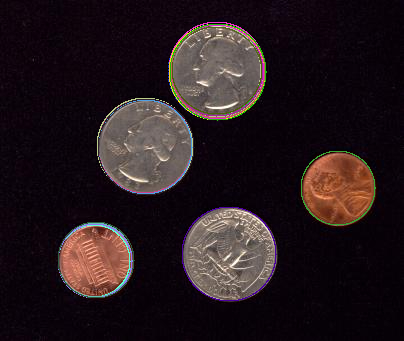
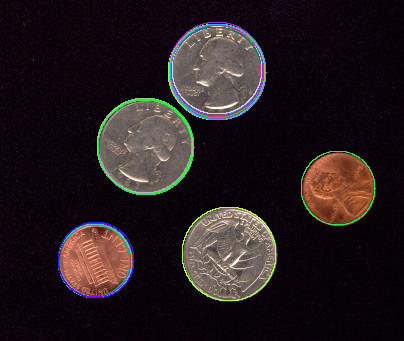
small change in drawing circles

diff --git a/vision-hw4/src/drawing.c b/vision-hw4/src/drawing.c
@@ -25,11 +25,11 @@ void drawLine(image im, double slope, double c, double r, double g, double b){
 
 void drawCircle(image im, point center, double radius, double r, double g, double b){
     assert(im.c == 3);
-    double step_size = 1/(10*r);
-    for(double theta = 0; theta < 360; theta += step_size){
-        double angle_rad = theta*(M_PI/180);
-        int x = (int)(center.x + radius*cos(angle_rad));
-        int y = (int)(center.y + radius*sin(angle_rad));
+    center.y = -center.y;
+    double step_size = M_PI/(100*r*180);
+    for(double theta = 0; theta <= (2*M_PI); theta += step_size){
+        int x = (int)(center.x + radius*cos(theta));
+        int y = -(int)(center.y + radius*sin(theta));
         set_pixel(im, x, y, 0, r);
         set_pixel(im, x, y, 1, g);
         set_pixel(im, x, y, 2, b);

diff --git a/vision-hw4/tryit.py b/vision-hw4/tryit.py
@@ -3,17 +3,17 @@ import time
 # import cv2
 # import matplotlib.pyplot as plt
 
-im = load_image("data/canny.jpg")
+im = load_image("data/coins.jpg")
 
-save_image(cannyEdgeDetect(im, 3, 0.8, 0.5), "canny")
+# save_image(cannyEdgeDetect(im, 3, 0.8, 0.5), "canny")
 
 # canny = cannyEdgeDetect(im, 1, 0.7, 0.07)
 # save_image(canny, "canny_board")
 # save_image(findLines(im, canny, .25), "lines")
 
-# canny = cannyEdgeDetect(im, 2, 0.7, 0.07)
-# save_image(canny, "canny_coins")
-# save_image(findCircles(im, canny, .5, 15, 80), "circles")
+canny = cannyEdgeDetect(im, 2, 0.7, 0.07)
+save_image(canny, "canny_coins")
+save_image(findCircles(im, canny, .5, 15, 80), "circles")
 
 # findLines(im, 0.4)
 # out = get_lbph_features(im, 1, 8, 8)
